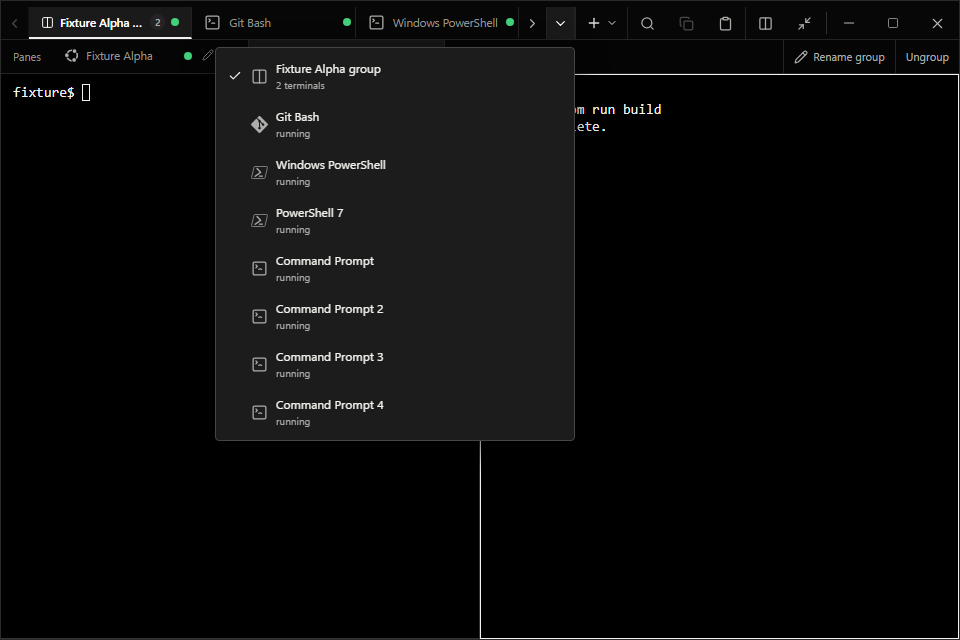
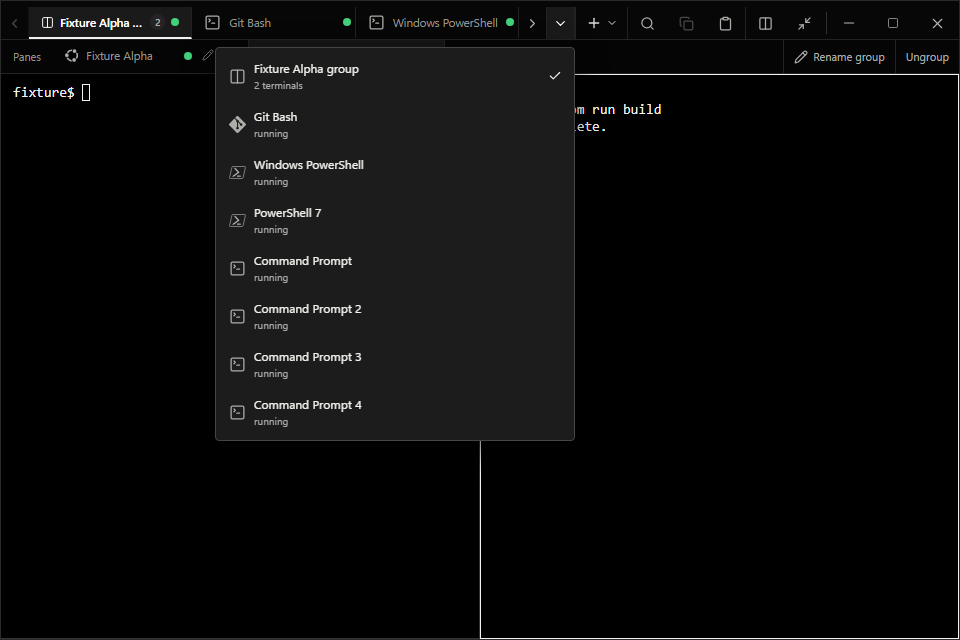
Align terminal dropdown selection marks to the right

diff --git a/src/app-journeys.browser.test.tsx b/src/app-journeys.browser.test.tsx
@@ -48,6 +48,22 @@ function emit(name: string, payload: any) {
   native.listeners.get(name)?.forEach((callback) => callback({ payload }));
 }
 
+function expectTerminalMenuAlignment(menu: Element) {
+  for (const row of menu.querySelectorAll<HTMLElement>('[role="menuitem"]')) {
+    const icon = row.querySelector<HTMLElement>(".session-tab-menu-icon")!;
+    const name = row.querySelector<HTMLElement>(".session-tab-menu-name")!;
+    const check = row.querySelector<HTMLElement>(".session-tab-menu-check")!;
+    expect(row.firstElementChild).toBe(icon);
+    expect(row.lastElementChild).toBe(check);
+    const bounds = row.getBoundingClientRect();
+    expect(icon.getBoundingClientRect().left).toBeCloseTo(bounds.left + 8, 0);
+    expect(check.getBoundingClientRect().right).toBeCloseTo(bounds.right - 8, 0);
+    expect(check.getBoundingClientRect().left).toBeGreaterThanOrEqual(
+      name.getBoundingClientRect().right,
+    );
+  }
+}
+
 async function respond(command: string, args: any = {}) {
   if (failures.has(command)) throw new Error(failures.get(command));
   if (overrides.has(command)) return overrides.get(command)!(args);
@@ -292,6 +308,7 @@ describe("complete app journeys with typed IPC fixtures", () => {
     ).length;
     await page.getByRole("button", { name: "All terminals", exact: true }).click();
     const terminalMenu = page.getByRole("menu", { name: "All terminals" }).element();
+    expectTerminalMenuAlignment(terminalMenu);
     for (const kind of shellKinds) {
       expect(
         terminalMenu.querySelector(`.session-tab-menu-icon .local-shell-icon-${kind} svg`),
@@ -334,6 +351,7 @@ describe("complete app journeys with typed IPC fixtures", () => {
       .getByRole("menu", { name: "All terminals" })
       .getByRole("menuitem", { name: /^Fixture Alpha group/ });
     await expect.element(groupItem).toHaveTextContent("Fixture Alpha group6 terminals");
+    expectTerminalMenuAlignment(page.getByRole("menu", { name: "All terminals" }).element());
     expect(
       groupItem.element().querySelector(".session-tab-menu-icon .lucide-columns-2"),
     ).not.toBeNull();
@@ -343,6 +361,7 @@ describe("complete app journeys with typed IPC fixtures", () => {
       .toBeVisible();
     await page.getByRole("button", { name: "All panes", exact: true }).click();
     const paneMenu = page.getByRole("menu", { name: "All panes" });
+    expectTerminalMenuAlignment(paneMenu.element());
     expect(paneMenu.element().querySelectorAll('[role="menuitem"]')).toHaveLength(6);
     expect(
       paneMenu

diff --git a/src/components/WorkspaceTabScroller.tsx b/src/components/WorkspaceTabScroller.tsx
@@ -245,9 +245,6 @@ export function WorkspaceTabScroller({
                 item.onSelect();
               }}
             >
-              <span className="session-tab-menu-check" aria-hidden="true">
-                {item.active && <Check size={14} />}
-              </span>
               {item.icon && (
                 <span className="session-tab-menu-icon" aria-hidden="true">
                   {item.icon}
@@ -256,6 +253,9 @@ export function WorkspaceTabScroller({
               <span className="session-tab-menu-name">
                 {item.label}
                 {item.detail && <small>{item.detail}</small>}
+              </span>
+              <span className="session-tab-menu-check" aria-hidden="true">
+                {item.active && <Check size={14} />}
               </span>
             </button>
           ))}

diff --git a/src/styles.css b/src/styles.css
@@ -1542,6 +1542,7 @@ code,
 
 .session-tab-menu-name {
   min-width: 0;
+  flex: 1;
   overflow-wrap: anywhere;
   font-size: 12px;
 }

diff --git a/DESIGN.md b/DESIGN.md
@@ -73,9 +73,10 @@ When Workspace tabs overflow, keep New terminal outside the scrolling list.
 Use equal-width tabs that shrink within readable limits. When they no longer fit,
 show a window of complete tabs with previous/next controls; never paint a partial
 tab at either edge. The All terminals menu lists full names and marks the selected
-item. Include shell logos and remote host OS marks beside each entry, and a group
-icon for split groups. The pane row has its own All panes menu. Selecting a hidden item reveals
-its complete tab, including in focus mode. Keep overflow menus within the window
+item at the right edge. Keep icons and names aligned at the left. Include shell
+logos and remote host OS marks beside each entry, and a group icon for split groups.
+The pane row has its own All panes menu. Selecting a hidden item reveals its
+complete tab, including in focus mode. Keep overflow menus within the window
 and support arrow keys, Home, End, Enter, and Escape.
 Let tab names use the space reserved for Rename and Close until the tab is
 hovered or focused. Revealing those controls must not resize neighboring tabs.
